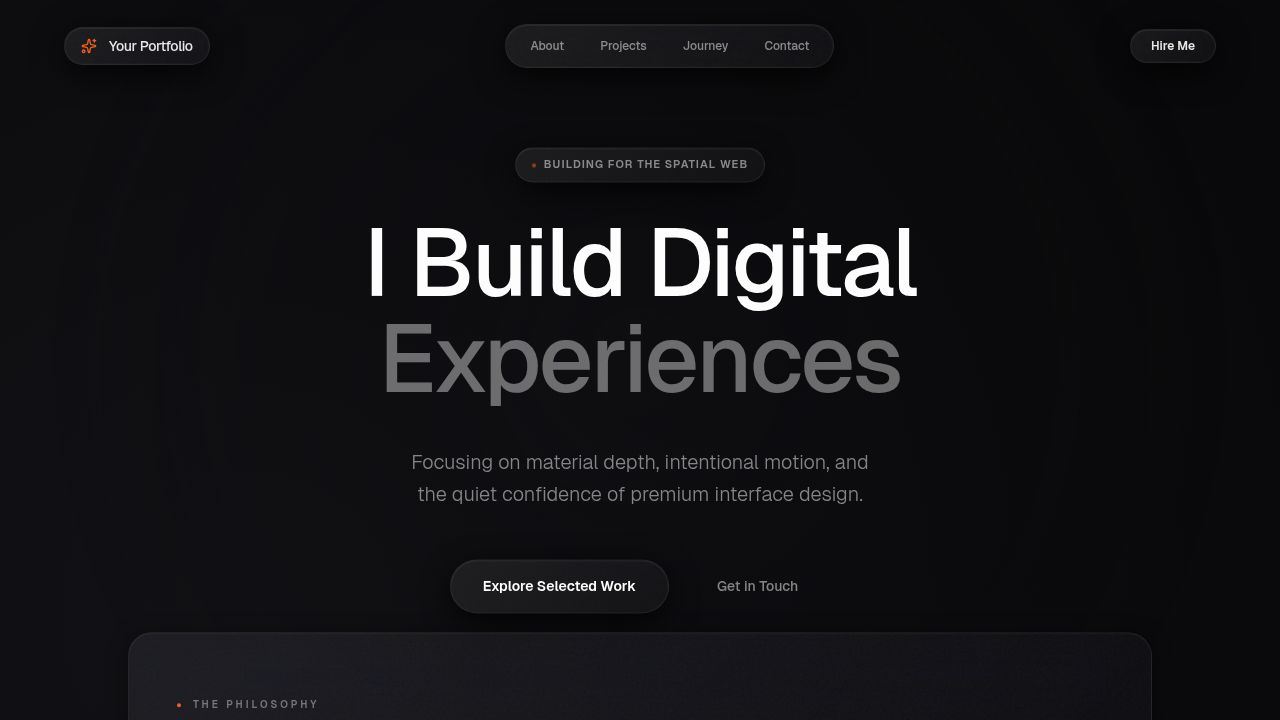
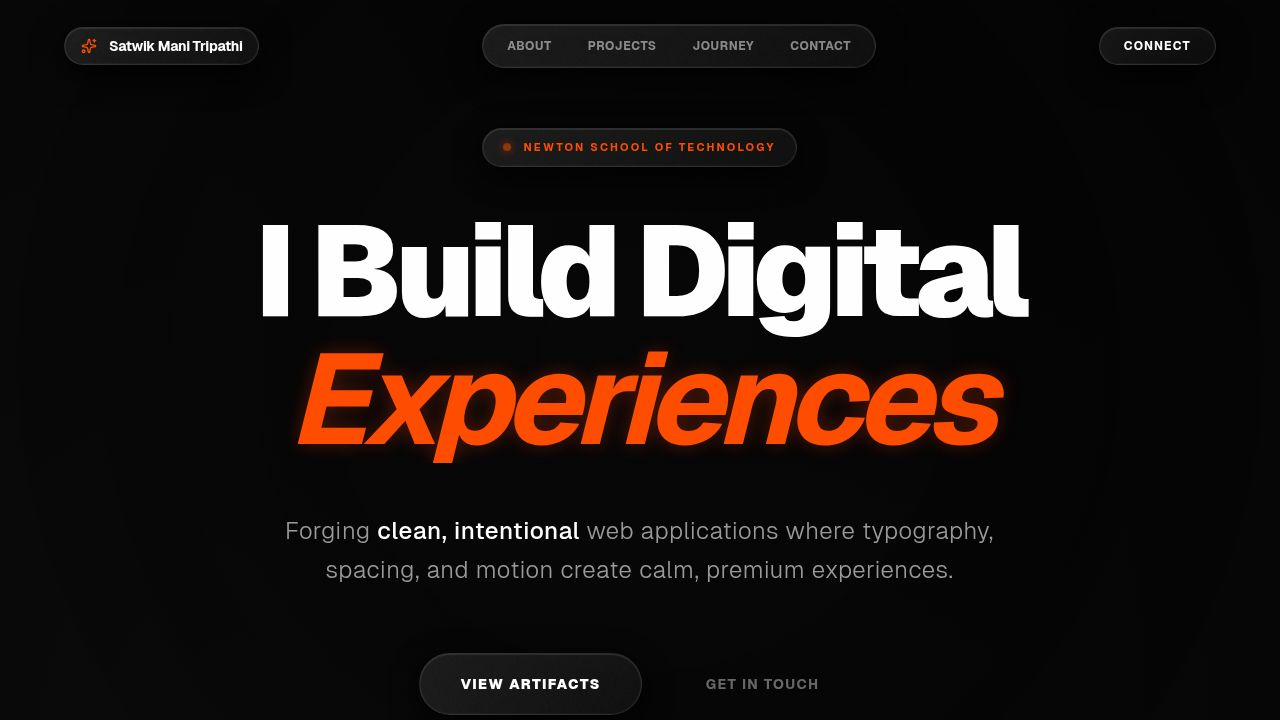
Update portfolio content with personal and project details
Update the `portfolio.tsx` file to reflect personal details, academic focus, and project descriptions.

Replit-Commit-Author: Agent
Replit-Commit-Session-Id: b985b796-da01-4a46-af7f-7fb098eac1ac
Replit-Commit-Checkpoint-Type: full_checkpoint
Replit-Commit-Event-Id: 065376f0-00fc-4a5e-ab26-9f7ea691318d
Replit-Commit-Screenshot-Url: https://storage.googleapis.com/screenshot-production-us-central1/629f8697-c7b1-4d00-ad95-db7141d43aa1/b985b796-da01-4a46-af7f-7fb098eac1ac/OUSBgOl
Replit-Helium-Checkpoint-Created: true

diff --git a/client/src/pages/portfolio.tsx b/client/src/pages/portfolio.tsx
@@ -213,29 +213,29 @@ export default function Portfolio() {
 
   const projects: Project[] = [
     {
-      id: "aurora",
-      title: "Aurora Notes",
+      id: "ecommerce",
+      title: "Modern E-commerce Platform",
       description:
-        "A spatial writing environment focusing on material depth and typography-led hierarchy.",
-      tags: ["Design Engineering", "React", "Motion"],
+        "A full-stack commerce experience focused on clean architecture and high-performance UI systems.",
+      tags: ["Full-stack", "UI Engineering", "Performance"],
       href: "#",
       repo: "#",
     },
     {
-      id: "atlas",
-      title: "Atlas Dashboard",
+      id: "univ-info",
+      title: "University Information Website",
       description:
-        "Premium data surface with micro-refractions and intent-based navigation.",
-      tags: ["UI Systems", "Data Viz", "Motion"],
+        "A structured informational portal built with intentional design and clear typography.",
+      tags: ["Information Design", "Web Systems", "Typography"],
       href: "#",
       repo: "#",
     },
     {
-      id: "flux",
-      title: "Flux Gallery",
+      id: "animation-ui",
+      title: "Animation-Driven UI Systems",
       description:
-        "Experimental commerce surface exploring glass-on-glass material interactions.",
-      tags: ["Experimental", "GLSL", "UX"],
+        "Experimental UI components exploring tactile feedback and spatial motion transitions.",
+      tags: ["Motion Design", "React", "Spatial Web"],
       href: "#",
       repo: "#",
     },
@@ -243,20 +243,20 @@ export default function Portfolio() {
 
   const journey: JourneyItem[] = [
     {
-      id: "now",
-      title: "Senior Design Engineer",
-      org: "Independent",
-      period: "2025–Present",
+      id: "nst",
+      title: "Computer Science Student",
+      org: "Newton School of Technology",
+      period: "2-year Student",
       description:
-        "Crafting high-fidelity interfaces that prioritize spatial awareness and material realism.",
+        "Focused on full-stack development, data structures, and the engineering of intentional user experiences.",
     },
     {
-      id: "prev",
-      title: "Product Engineer",
-      org: "Stellar Systems",
-      period: "2023–2025",
+      id: "projects",
+      title: "Independent Developer",
+      org: "Freelance / Open Source",
+      period: "Present",
       description:
-        "Architected core design systems with a focus on motion-driven feedback and glass surfaces.",
+        "Developing real-world applications with a priority on quality over quantity and designs that age well.",
     },
   ];
 
@@ -269,7 +269,7 @@ export default function Portfolio() {
         <nav className="mx-auto max-w-6xl flex justify-between items-center pointer-events-auto">
           <div className="glass px-4 py-2 rounded-full flex items-center gap-3 grain ring-1 ring-accent/20">
             <Sparkles className="h-4 w-4 text-accent" />
-            <span className="text-sm font-bold tracking-tight text-white">Your Portfolio</span>
+            <span className="text-sm font-bold tracking-tight text-white">Satwik Mani Tripathi</span>
           </div>
           <div className="hidden sm:flex glass px-2 py-1.5 rounded-full items-center gap-1 grain ring-1 ring-accent/10">
             {["About", "Projects", "Journey", "Contact"].map((item) => (
@@ -286,7 +286,7 @@ export default function Portfolio() {
             href="#contact"
             className="glass px-6 py-2.5 rounded-full text-xs font-bold uppercase tracking-widest text-white hover:text-accent hover:ring-accent/40 transition-all ring-1 ring-white/10"
           >
-            Hire Me
+            Connect
           </a>
         </nav>
       </header>
@@ -304,7 +304,7 @@ export default function Portfolio() {
           >
             <div className="mb-10 inline-flex items-center gap-3 rounded-full glass grain px-5 py-2.5 text-[11px] font-bold uppercase tracking-[0.2em] text-accent ring-1 ring-accent/30 shadow-[0_0_20px_rgba(255,68,0,0.1)]">
               <span className="h-2 w-2 rounded-full bg-accent animate-pulse shadow-[0_0_10px_rgba(255,68,0,1)]" />
-              Available for high-impact work
+              Newton School of Technology
             </div>
 
             <h1 className="text-balance text-6xl font-black tracking-tighter text-white sm:text-8xl lg:text-9xl mb-6">
@@ -312,9 +312,9 @@ export default function Portfolio() {
               <AnimatedRevealText text="Experiences" />
             </h1>
 
-            <p className="mx-auto mt-12 max-w-2xl text-balance text-xl font-light leading-relaxed text-white/60 sm:text-2xl tracking-wide">
-              Forging the future of <span className="text-white font-medium">spatial interfaces</span> with 
-              material depth and visceral motion.
+            <p className="mx-auto mt-12 max-w-3xl text-balance text-xl font-light leading-relaxed text-white/60 sm:text-2xl tracking-wide">
+              Forging <span className="text-white font-medium">clean, intentional</span> web applications 
+              where typography, spacing, and motion create calm, premium experiences.
             </p>
 
             <div className="mt-16 flex flex-col items-center justify-center gap-6 sm:flex-row">
@@ -337,15 +337,19 @@ export default function Portfolio() {
         </section>
 
         <div className="mx-auto max-w-6xl px-6 pb-40">
-          <Section id="about" eyebrow="The Core" title="Visceral Engineering" index={0}>
+          <Section id="about" eyebrow="The Identity" title="Clean. Structured. Intentional." index={0}>
             <p className="mb-8 text-lg">
-              I don't just build UI; I craft digital materials. By pushing the boundaries 
-              of <span className="text-accent font-medium italic">refraction, lighting, and mass</span>, I create 
-              experiences that feel like they exist in physical space.
+              I’m <span className="text-white font-medium">Satwik Mani Tripathi</span>, a second-year Computer Science student 
+              at Newton School of Technology. I care deeply about how interfaces <span className="text-accent italic font-medium">feel</span>—not just how they function.
+            </p>
+            <p className="text-white/70 mb-6">
+              I prefer clarity over complexity and quality over quantity. My work is focused on 
+              full-stack development and data structures, but always through the lens of 
+              creating design decisions that age well.
             </p>
             <p className="text-white/50">
-              Every pixel is intentional. Every motion is physics-driven. The result is 
-              software that commands attention through its sheer quality and craft.
+              I spend my time obsessing over typography, spacing, and the quiet precision of 
+              motion-driven UI systems to build products that command respect.
             </p>
           </Section>
 
@@ -415,11 +419,11 @@ export default function Portfolio() {
                 <div className="space-y-6">
                   <a href="mailto:hello@example.com" className="group flex items-center gap-5 text-white/80 hover:text-accent transition-all">
                     <div className="glass p-4 rounded-full ring-1 ring-white/10 group-hover:ring-accent/40 shadow-xl"><Mail className="h-5 w-5" /></div>
-                    <span className="text-base font-bold tracking-wide">hello@example.com</span>
+                    <span className="text-base font-bold tracking-wide">satwikmani@example.com</span>
                   </a>
                   <div className="flex items-center gap-5 text-white/30">
                     <div className="glass p-4 rounded-full opacity-50 ring-1 ring-white/5"><MapPin className="h-5 w-5" /></div>
-                    <span className="text-base font-medium">Global / Remote</span>
+                    <span className="text-base font-medium">NST / Remote</span>
                   </div>
                 </div>
               </div>
@@ -461,7 +465,7 @@ export default function Portfolio() {
       <footer className="px-6 py-16 border-t border-accent/10 bg-black/40">
         <div className="mx-auto max-w-6xl flex flex-col sm:flex-row justify-between items-center gap-10">
           <div className="text-[11px] font-black uppercase tracking-[0.5em] text-white/10">
-            © 2026 forged by your name
+            © 2026 forged by Satwik Mani Tripathi
           </div>
           <div className="flex gap-12">
             <a href="#" className="text-[11px] font-black uppercase tracking-[0.2em] text-white/20 hover:text-accent transition-all">GitHub</a>
